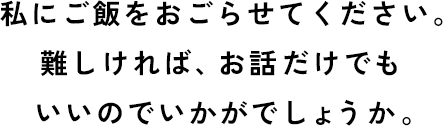
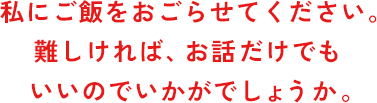
Fix profile page design and form.

diff --git a/public/resources/css/style.css b/public/resources/css/style.css
@@ -5,7 +5,6 @@
 body, p {
   margin: 0;
   padding: 0;
-  height: 100%;
 }
 
 
@@ -141,11 +140,24 @@ body, p {
 }
 
 #profilePage .contents .container .fbProfileMessageText {
-  width: 222px;
+  width: 188px;
   display: block;
   margin: 30px auto;
 }
 
+#profilePage .contents .container .nicknameMessageText {
+  width: 193px;
+  display: block;
+  margin: 30px auto;
+}
+
+#profilePage .contents .container .textArea {
+  display: block;
+  width: 80%;
+  margin: 0 auto;
+  box-sizing: border-box;
+  border: 3px solid #e71a19;
+}
 
 /* メッセージページ
 -------------------------------------------------- */
